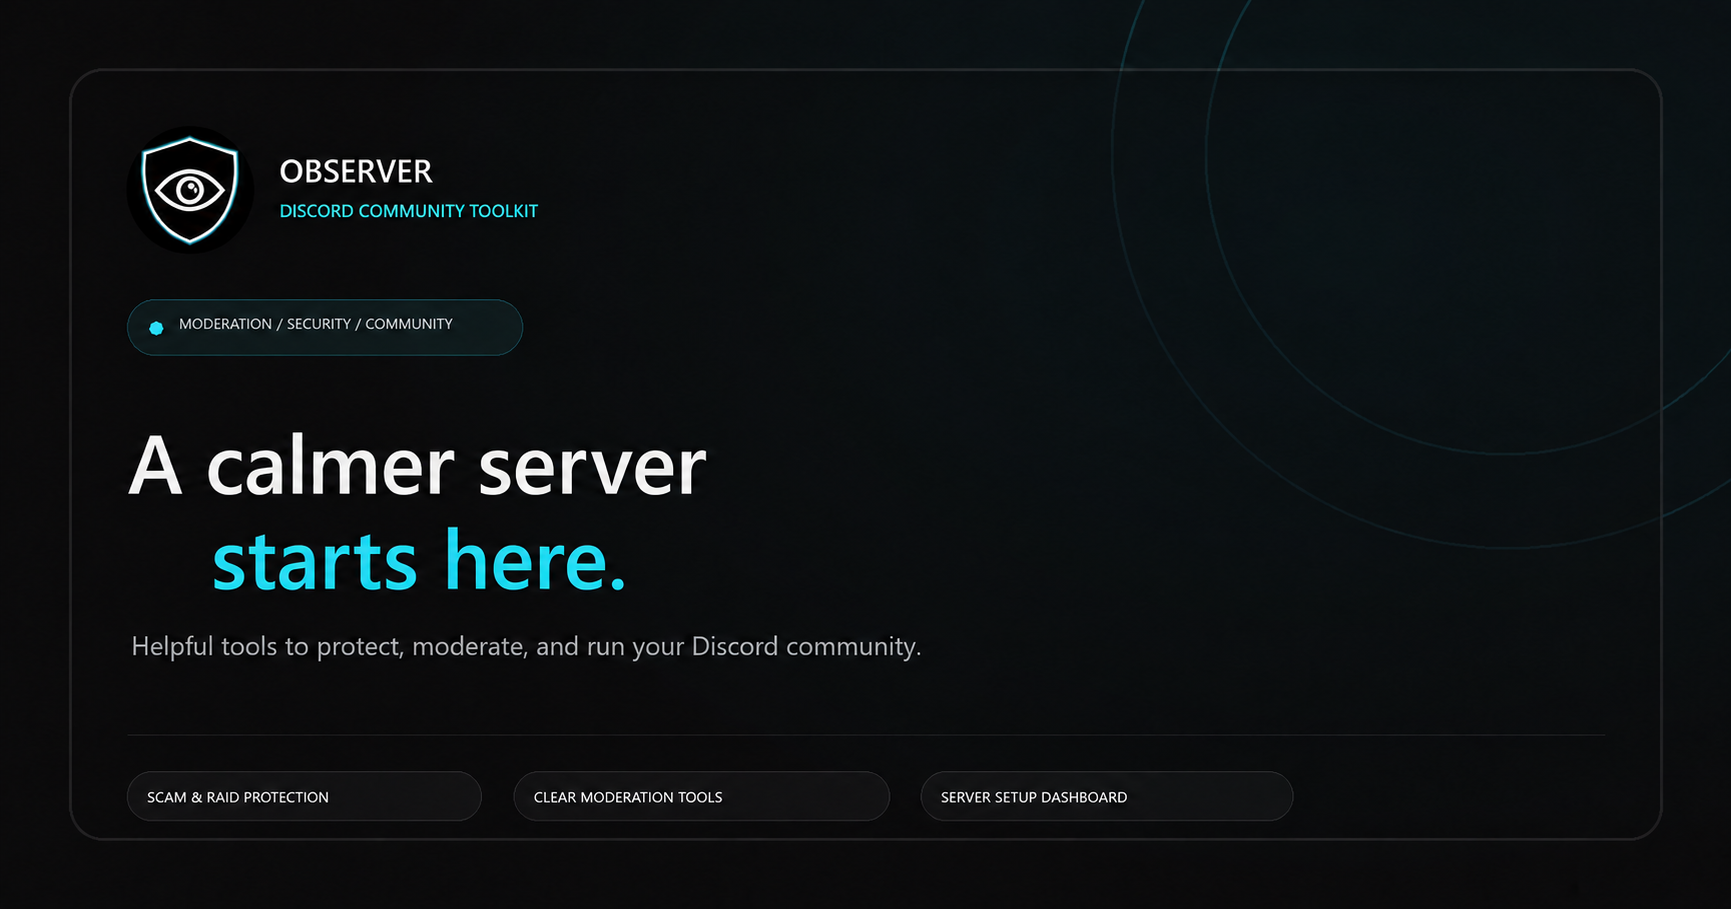
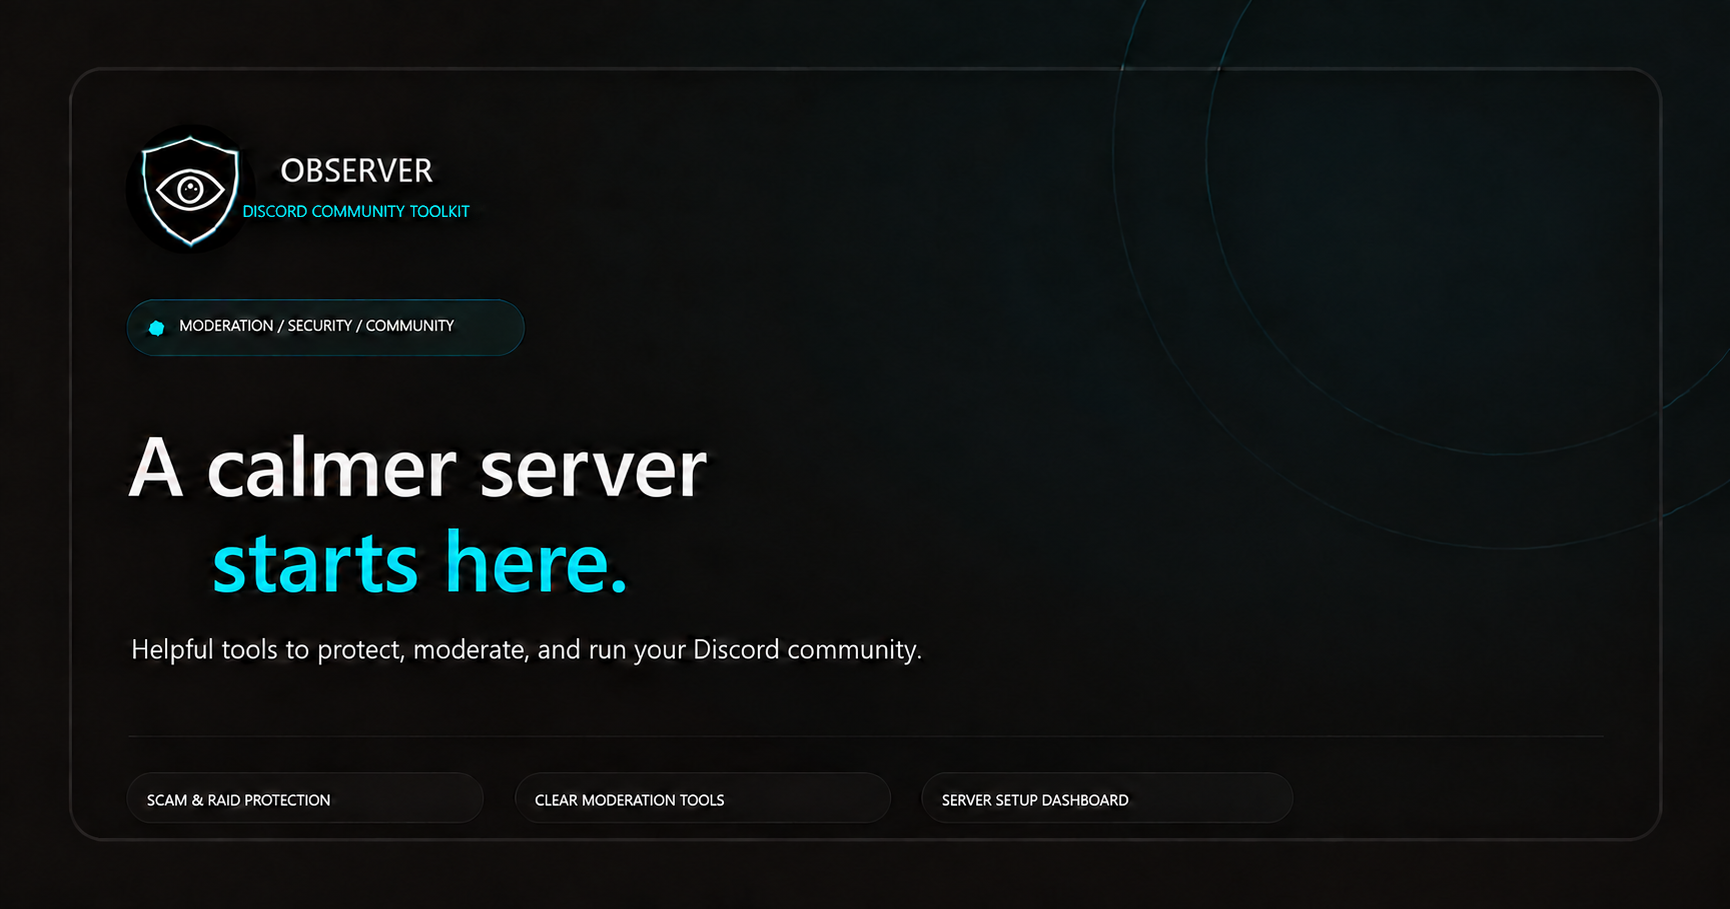
Center Discord preview subtitle under wordmark

diff --git a/activity/index.html b/activity/index.html
@@ -13,16 +13,16 @@
     <meta property="og:url" content="https://observer-dashboard.observer/?share=1" />
     <meta property="og:title" content="Observer | A calmer Discord server" />
     <meta property="og:description" content="A modular Discord bot for moderation, reports, server safety, community tools, and web-based server configuration." />
-    <meta property="og:image" content="https://observer-dashboard.observer/og-card.png?v=3" />
-    <meta property="og:image:secure_url" content="https://observer-dashboard.observer/og-card.png?v=3" />
+    <meta property="og:image" content="https://observer-dashboard.observer/og-card.png?v=4" />
+    <meta property="og:image:secure_url" content="https://observer-dashboard.observer/og-card.png?v=4" />
     <meta property="og:image:type" content="image/png" />
-    <meta property="og:image:width" content="1731" />
+    <meta property="og:image:width" content="1730" />
     <meta property="og:image:height" content="909" />
     <meta property="og:image:alt" content="Observer, a Discord community toolkit for moderation, security, and server setup." />
     <meta name="twitter:card" content="summary_large_image" />
     <meta name="twitter:title" content="Observer | A calmer Discord server" />
     <meta name="twitter:description" content="A modular Discord bot for moderation, reports, server safety, community tools, and web-based server configuration." />
-    <meta name="twitter:image" content="https://observer-dashboard.observer/og-card.png?v=3" />
+    <meta name="twitter:image" content="https://observer-dashboard.observer/og-card.png?v=4" />
     <title>Observer | Discord community tools</title>
   </head>
   <body>
